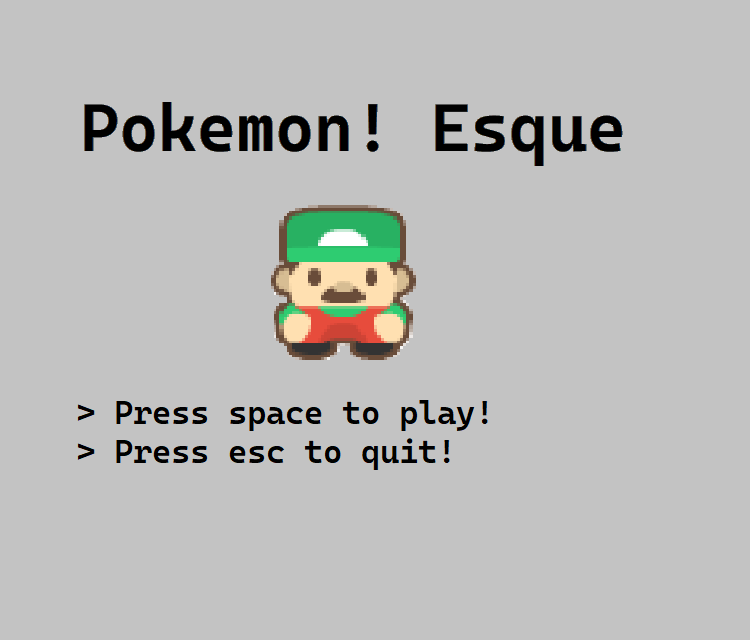
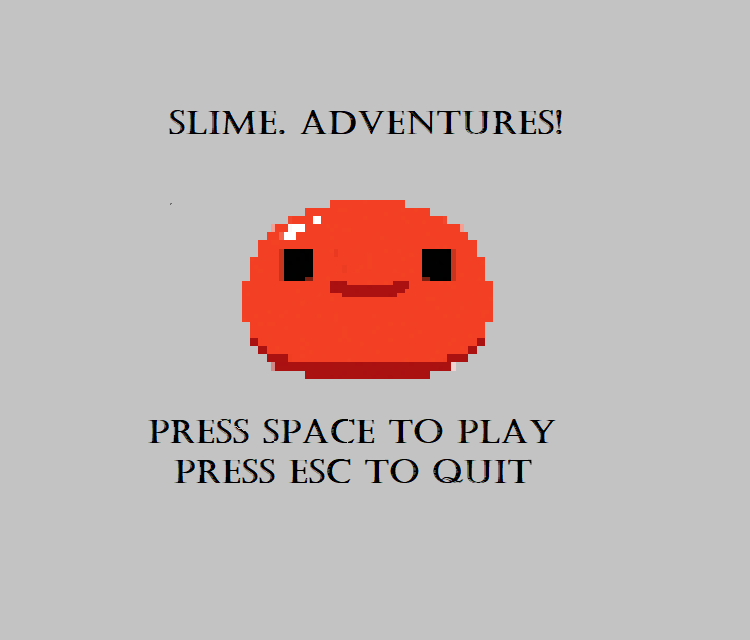
Changed UI elements
- no longer pokemon esque clone
- name now: Slime Adventures!
- new menu screen
- implement a different background for it (instead of a gray background)

diff --git a/src/battle.py b/src/battle.py
@@ -1,6 +1,5 @@
 import pygame
 from configurations import *
-from support import rng
 
 class Battle:
     def __init__(self, screen, pokemon, player):
@@ -18,7 +17,7 @@ class Battle:
         img = font.render("HP: " + str(self.pokemon.hp) + " ATK: " + str(self.pokemon.atk), True, BLACK)
         self.screen.blit(img, (20, 120))
 
-        img = font.render("press c to attack!", True, BLACK)
+        img = font.render("press space to attack!", True, BLACK)
         self.screen.blit(img, (20, 220))
         
     def update(self):
@@ -29,5 +28,5 @@ class Battle:
             elif event.type == pygame.KEYDOWN:
                 if event.key == pygame.K_ESCAPE:
                     self.game.mode = 2
-                if event.key == pygame.K_c:
+                if event.key == pygame.K_SPACE:
                     self.pokemon.hp -= 1

diff --git a/src/main.py b/src/main.py
@@ -4,7 +4,7 @@ from game import Game
 from menu import Menu
 
 pygame.init()
-pygame.display.set_caption("Tiled Pokemon Game")
+pygame.display.set_caption("Slime Adventures!")
 game = Game(pygame.display.set_mode((SCREEN_WIDTH, SCREEN_HEIGHT)))
 menu = Menu(pygame.display.set_mode((SCREEN_WIDTH, SCREEN_HEIGHT)), game)
 clock = pygame.time.Clock()

diff --git a/src/game.py b/src/game.py
@@ -1,5 +1,5 @@
 import pygame
-from support import rng
+from support import *
 from configurations import *
 
 from player import Player

diff --git a/src/make_pokemon.py b/src/make_pokemon.py
@@ -1,4 +1,4 @@
-from support import rng 
+from support import * 
 from pokemon import Pokemon
 
 class Creation:

diff --git a/src/pokemon.py b/src/pokemon.py
@@ -1,5 +1,4 @@
 import pygame
-from support import rng
 
 class Pokemon:
     def __init__(self,type,id):
